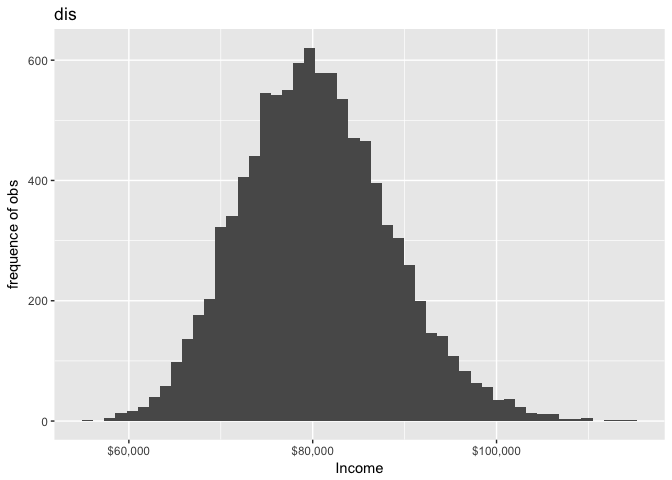
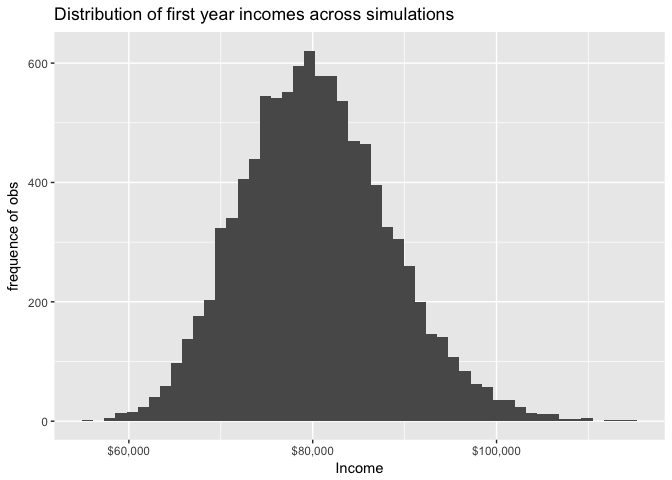
Committing updated values.

diff --git a/students/nickels_nora/hw4/POCA_Assignment_4.md b/students/nickels_nora/hw4/POCA_Assignment_4.md
@@ -91,7 +91,7 @@ simulated_income %>%
   ggplot(aes(inc)) +
   geom_histogram(bins = 50) +
   scale_x_continuous(labels = scales::dollar) +
-  labs(title = "dis",
+  labs(title = "Distribution of first year incomes across simulations",
        x = "Income",
        y = "frequence of obs")
 ```
@@ -184,7 +184,7 @@ simulated_debt %>%
   filter(debt < 0) %>%
   ggplot(aes(year)) +
   geom_histogram(bins = 4) +
-  labs(title = "Year of Debt Paid in Full",
+  labs(title = "Year of debt paid in full",
        x = "Year",
        y = "Frequency of Observations")
 ```
@@ -194,7 +194,7 @@ simulated_debt %>%
 ``` r
 simulated_debt %>%
   filter(debt < 0) %>%
-  mutate(within_10 = year == 2028) %>%
+  mutate(within_10 = year <= 2028) %>%
   summarize(debt_within = sum(within_10),
             n = n(),
             debt_within_pct = debt_within /n)  
@@ -203,9 +203,9 @@ simulated_debt %>%
     ## # A tibble: 1 × 3
     ##   debt_within     n debt_within_pct
     ##         <int> <int>           <dbl>
-    ## 1        1826 10000          0.1826
+    ## 1        1829 10000          0.1829
 
-17.7% of the simulations are able to pay off the debt in 10 years.
+18.2% of the simulations are able to pay off the debt in 10 years.
 
 ### Part 4. (2 points) Now suppose that the UChicago MACSS program becomes very well known in the next year, and the skills you are learning are demanded more by employers. This increases the average starting salary to $inc\_0 = \(85,000\), but the standard deviation in incomes increases also to \(\sigma = 0.15\). Plot the new histogram of how many years it takes to pay off your loan of $95,000 in your new 10,000 simulations with the new standard deviation and the new average initial salary. In what percent of the simulations are you able to pay off the loan in 10 years (on or before \(t = 2028\))?
 
@@ -261,7 +261,7 @@ simulated_debt_85 %>%
   filter(debt < 0) %>%
   ggplot(aes(year)) +
   geom_histogram(bins = 5) +
-  labs(title = "Year of Debt Paid in Full",
+  labs(title = "Year of debt paid in full - higher starting salary",
        x = "Year",
        y = "Frequency of Observations")
 ```
@@ -282,4 +282,4 @@ simulated_debt_85 %>%
     ##         <int> <int>           <dbl>
     ## 1        6970 10000           0.697
 
-69.83% of the simulations are able to pay off the debt in 10 years, when the starting income and sigma are increased.
+69.7% of the simulations are able to pay off the debt in 10 years, when the starting income and sigma are increased.
